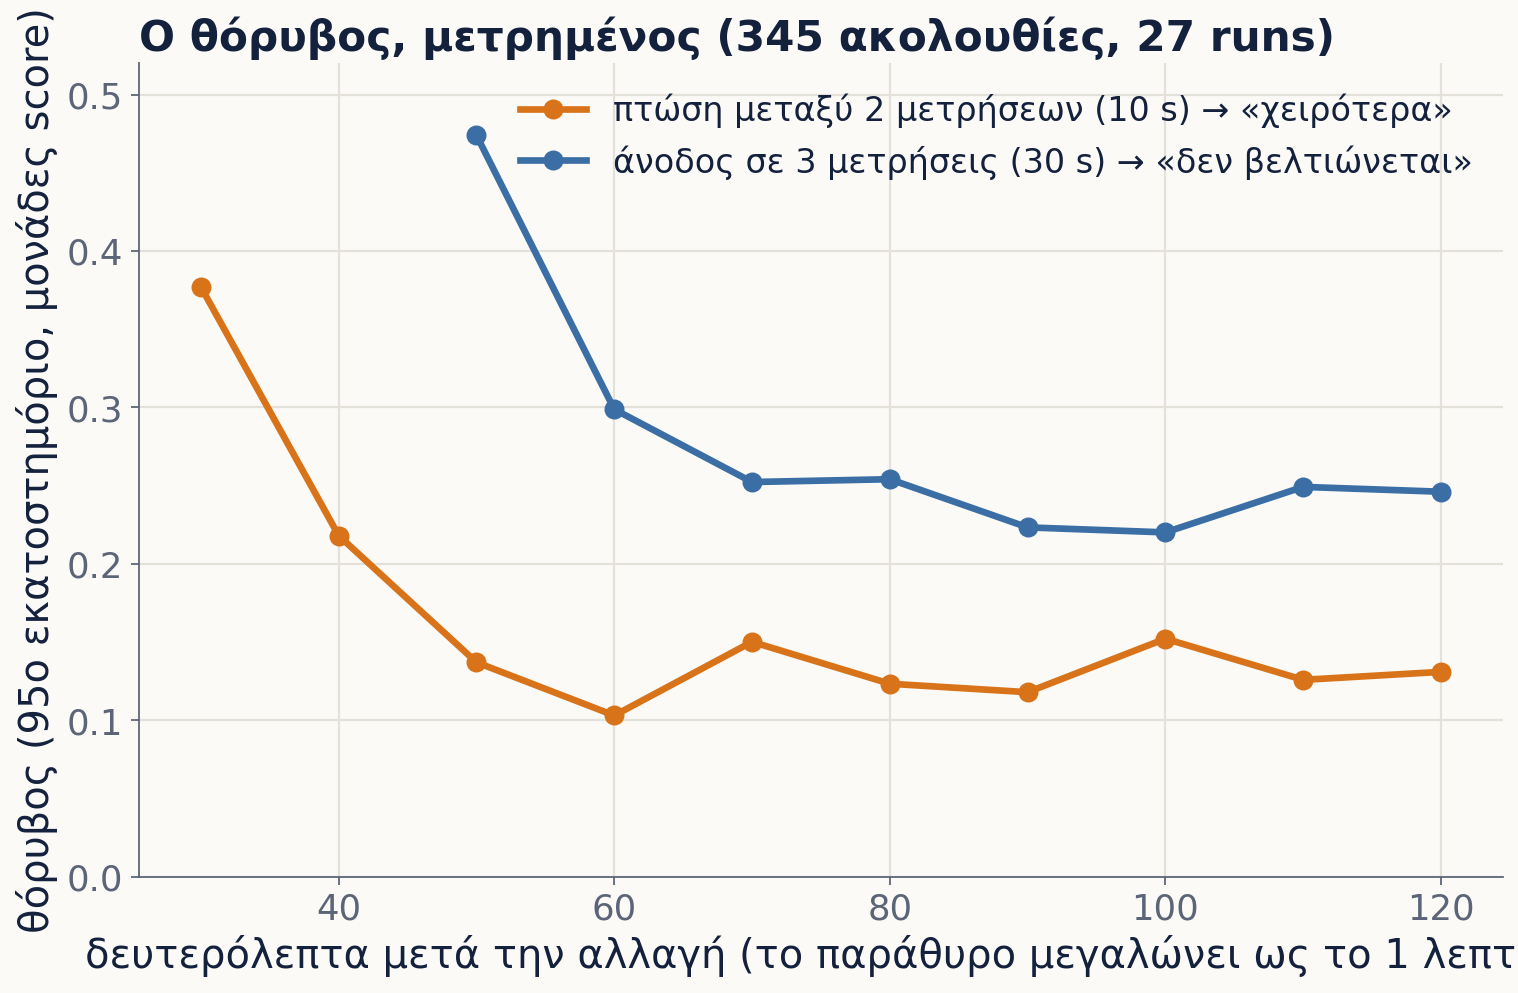
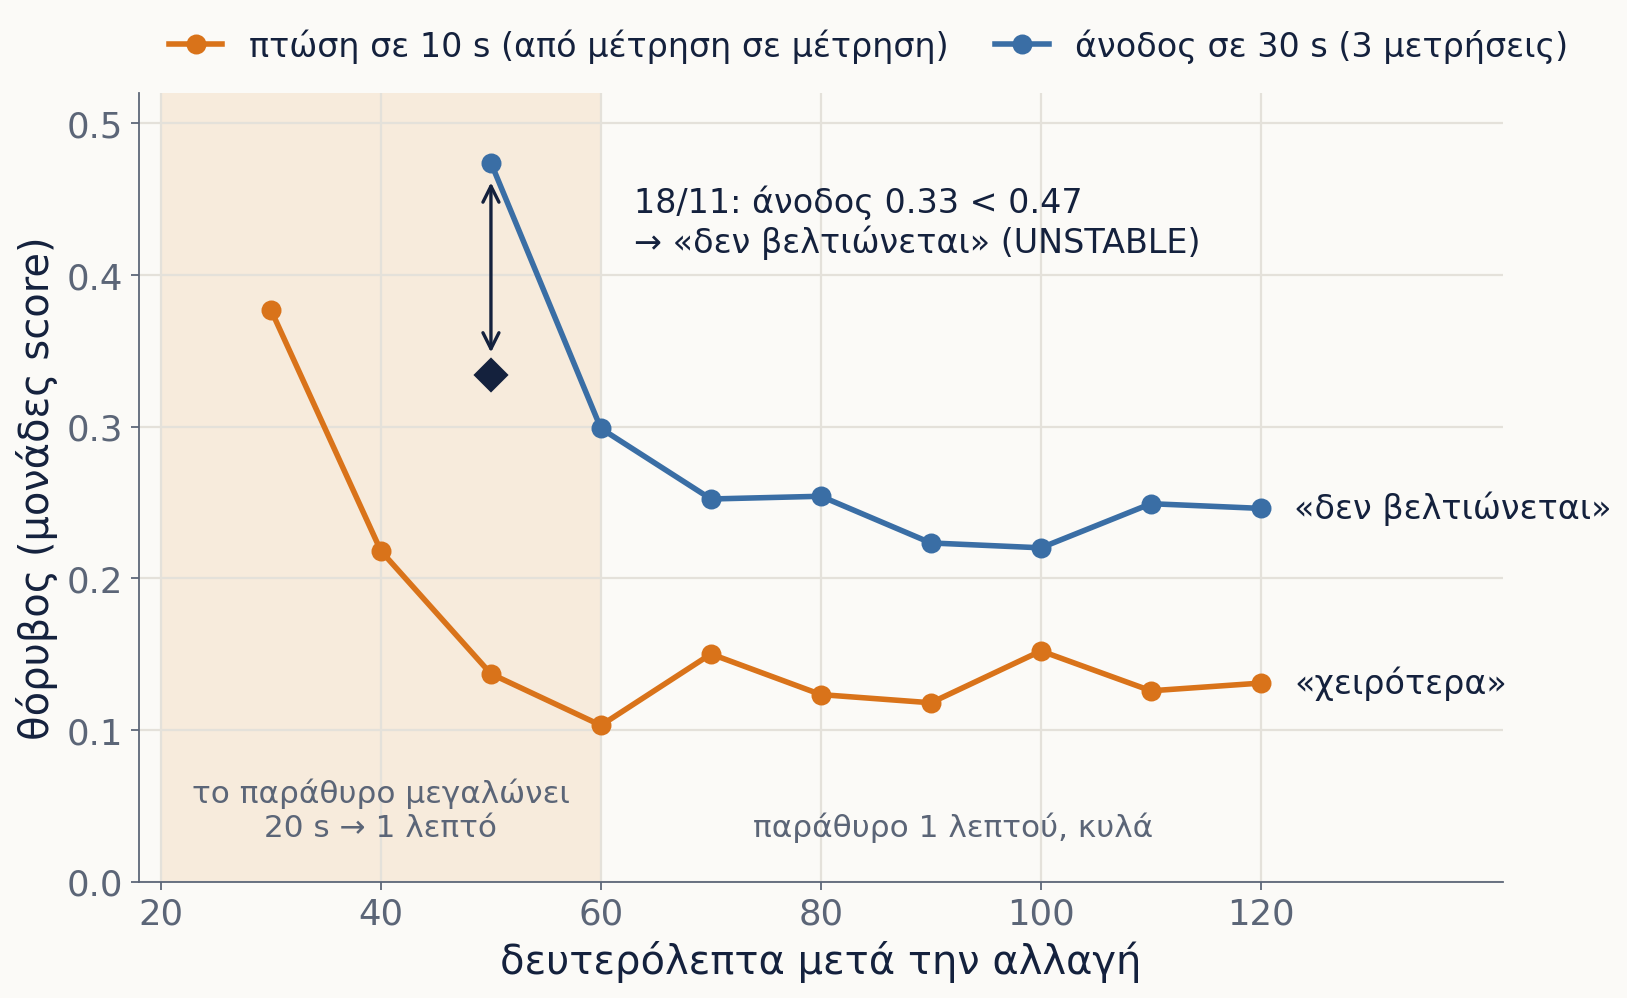
Defense notes for the presentation (2026-11-18): the noise figure redone; probes, Kubernetes and the HPA in each fault; the Isolation Forest's saturated scale
- Noise figure (fig_window_noise): no inner title, the legend above the axes, the verdict at each line's end, the two
  phases of the window (grows 20 s -> 1 min, then slides), the live UNSTABLE of 18/11 as the worked example
  (rise 0.33 < 0.47).
- defense_qa A1: how a cpuhog pod still answers the probes (600 ms blocks, 100-400 ms pauses), measured from the
  kubelet's prober_probe_total: liveness 0 failures; readiness timeouts mostly in the first minute on one overloaded pod,
  3 in a row once (18/11 12:06, ~15 s out of the Service).
- defense_qa B5: what each Kubernetes component does in each fault, from the 16 HPA fault runs: stuck 8/8 at
  cpu 0-1%/60%, 1 pod unready, 0 restarts; cpuhog 8/8 at 2 pods, 58-62%/60%, 0 restarts.
- defense_qa G2: the Isolation Forest with the same 210 healthy readings, why better data would not fix it, why
  "1 pod at 300 rps" stays positive (+0.005, not +0.000) and when its score goes negative (a saturated scale: a healthy
  edge reading -0.049, p95 5 s -0.054).
- Worklog for all of the above.

diff --git a/thesis_notes/figures/make_presentation_figures.py b/thesis_notes/figures/make_presentation_figures.py
@@ -487,17 +487,32 @@ def fig_normal_load():
 
 # --- the verification's noise ----------------------------------------------------------------------------------------
 def fig_window_noise():
+    """The noise each comparison of the verification is judged against (window_noise.json), with the two phases of the
+    window (it grows from 20 s to a minute, then slides) and the live UNSTABLE of 2026-11-18 as the worked example
+    (eval_llm_20261118_1308: score -5.29 at +20 s -> -4.95 at +50 s, a rise of 0.33 against 0.474)."""
     noise = bundle["window_noise"]
-    fig, ax = plt.subplots(figsize=(11, 6.6))
-    for key, color, name in [("step", AGENT, "πτώση μεταξύ 2 μετρήσεων (10 s) → «χειρότερα»"),
-                             ("span", HPA, "άνοδος σε 3 μετρήσεις (30 s) → «δεν βελτιώνεται»")]:
+    fig, ax = plt.subplots(figsize=(11, 6.4))
+    ax.axvspan(20, 60, color=FILL, alpha=0.55, lw=0, zorder=0)
+    for key, color, name, verdict in [("step", AGENT, "πτώση σε 10 s (από μέτρηση σε μέτρηση)", "«χειρότερα»"),
+                                      ("span", HPA, "άνοδος σε 30 s (3 μετρήσεις)", "«δεν βελτιώνεται»")]:
         xs = sorted(int(k) for k in noise[key])
-        ax.plot(xs, [noise[key][str(x)] for x in xs], "-o", color=color, lw=3, ms=8, label=name)
-    ax.set_xlabel("δευτερόλεπτα μετά την αλλαγή (το παράθυρο μεγαλώνει ως το 1 λεπτό)")
-    ax.set_ylabel("θόρυβος (95ο εκατοστημόριο, μονάδες score)")
+        ys = [noise[key][str(x)] for x in xs]
+        ax.plot(xs, ys, "-o", color=color, lw=2.5, ms=8, label=name, zorder=3)
+        ax.text(xs[-1] + 3, ys[-1], verdict, color=INK, fontsize=15, va="center")
+    rise, limit = -4.953 - -5.287, noise["span"]["50"]
+    ax.plot([50], [rise], "D", ms=10, color=INK, zorder=4)
+    ax.annotate("", xy=(50, limit - 0.01), xytext=(50, rise + 0.012),
+                arrowprops=dict(arrowstyle="<->", color=INK, lw=1.5), zorder=4)
+    ax.text(63, 0.435, f"18/11: άνοδος {rise:.2f} < {limit:.2f}\n→ «δεν βελτιώνεται» (UNSTABLE)",
+            fontsize=15, color=INK, va="center")
+    ax.text(40, 0.03, "το παράθυρο μεγαλώνει\n20 s → 1 λεπτό", ha="center", fontsize=14, color=MUTED)
+    ax.text(92, 0.03, "παράθυρο 1 λεπτού, κυλά", ha="center", fontsize=14, color=MUTED)
+    ax.set_xlim(18, 142)
+    ax.set_xticks(range(20, 121, 20))
     ax.set_ylim(0, 0.52)
-    ax.legend(loc="upper right", fontsize=15)
-    ax.set_title(f"Ο θόρυβος, μετρημένος ({noise['sequences']} ακολουθίες, {len(noise['runs'])} runs)")
+    ax.set_xlabel("δευτερόλεπτα μετά την αλλαγή")
+    ax.set_ylabel("θόρυβος (μονάδες score)")
+    ax.legend(loc="lower left", bbox_to_anchor=(0, 1.0), ncol=2, fontsize=15, handlelength=1.6, columnspacing=1.4)
     save(fig, "window_noise.png")
 
 

diff --git a/thesis_notes/phase2_worklog.md b/thesis_notes/phase2_worklog.md
@@ -1139,3 +1139,25 @@ token προς το παρόν, και ζήτησε πρώτα τις διαφά
     - νέα «rewake» μετά το «run»·
     - «limits» σε 8 κάρτες (η μνήμη στα βαριά σφάλματα, ο δρόμος που αλλάζει, χωρίς το «το log λέει τη διάγνωση»)·
     - σημειώσεις ομιλητή στα «verify» και «faults».
+  - Αργότερα:
+    - Η εφεδρική «noise» με νέο σχήμα (`make_presentation_figures.fig_window_noise`):
+      - χωρίς τίτλο μέσα·
+      - το υπόμνημα πάνω από τον άξονα, και η ετυμηγορία στην άκρη κάθε γραμμής·
+      - οι δύο φάσεις του παραθύρου, και το παράδειγμα της 18/11 (άνοδος 0.33 < 0.47).
+    - Νέο κείμενο: τι είναι, πώς χρησιμοποιείται, γιατί πέφτει.
+    - «αυστηρότερη» → «πιο ευαίσθητη» (ο θόρυβος ισχύει και προς τις δύο μεριές). Η «verify» δείχνει και τον θόρυβο των 30 s.
+    - `defense_qa.md` Γ2: το IF με τα ίδια 210 δεδομένα δίνει −0.054 σε p95 0.4 / 1.3 / 5 s και σε stuck με 60%, και
+      στις μονάδες NFR είναι τυφλό (+0.142).
+    - Ο χρήστης: πώς απαντά το cpuhog στα probes, και τι κάνει το HPA στο stuck.
+      - Μετρήθηκε από τα `prober_probe_total` του kubelet (Prometheus, runs 8/11 14:21 και 22:33, 18/11 11:47 και 12:06):
+        - liveness: 0 αποτυχίες·
+        - readiness: αποτυχίες κυρίως στο πρώτο λεπτό, με 1 pod υπό υπερφόρτωση (22:33: 6 στα πρώτα 50 s, 2 μετά)·
+        - 3 στη σειρά μία φορά (18/11 12:06): το pod εκτός Service ~15 s πριν ετοιμαστεί ο νέος pod (6% σφάλματα στο λεπτό).
+      - Από τα `controller.log` / `pods_at_end.txt` των 16 runs του HPA:
+        - stuck 8/8 `cpu: 0–1%/60%`, 1 pod 0/1 έτοιμο, 0 restarts·
+        - cpuhog 8/8: 2 pods, 58–62%/60%, 0 restarts.
+      - `defense_qa.md` Α1 (το cpuhog και τα probes) και Β5 (τι κάνει το Kubernetes σε κάθε σφάλμα).
+    - Ο χρήστης: γιατί το IF δεν βγάζει ανωμαλία το «1 pod στα 300 rps», και πότε πάει αρνητικό.
+      - Διορθώθηκε στο Γ2 το +0.000 (raw) → +0.005, και μπήκε ο μηχανισμός: το σημείο καταλήγει στα φύλλα των ακραίων υγιών
+        (~6.1 τομές, έναντι ~7.1 της άκρης του 1 pod).
+      - Η κλίμακα είναι κορεσμένη: υγιής μέτρηση της άκρης −0.049, p95 5 s −0.054, σφάλμα 50% −0.059, σπατάλη +0.064.
